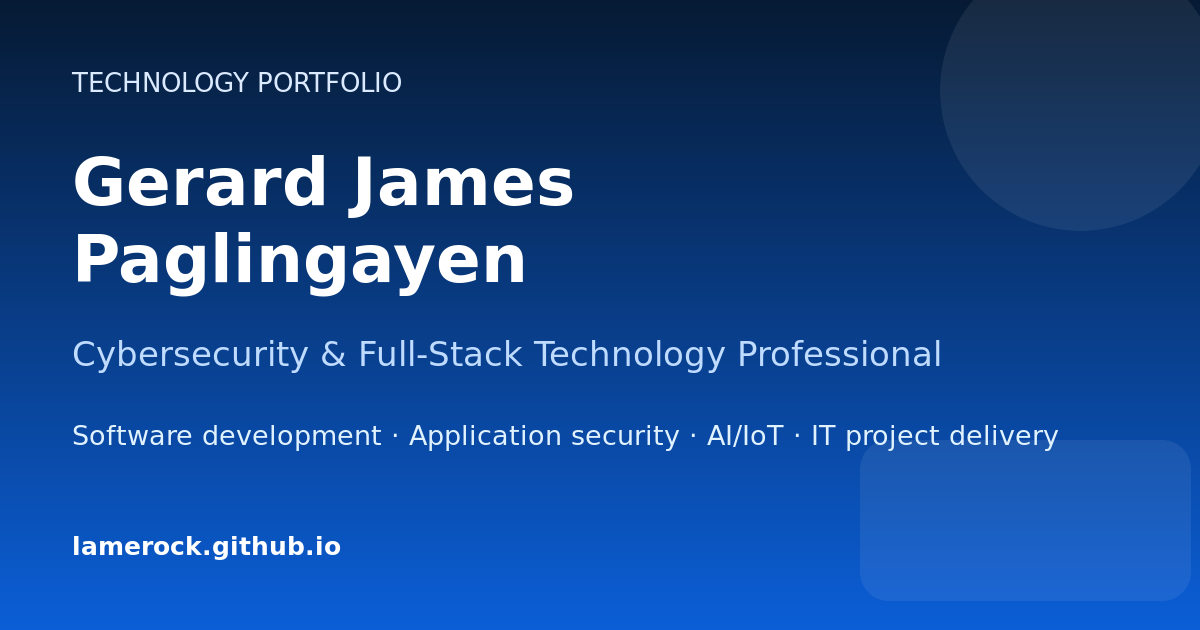
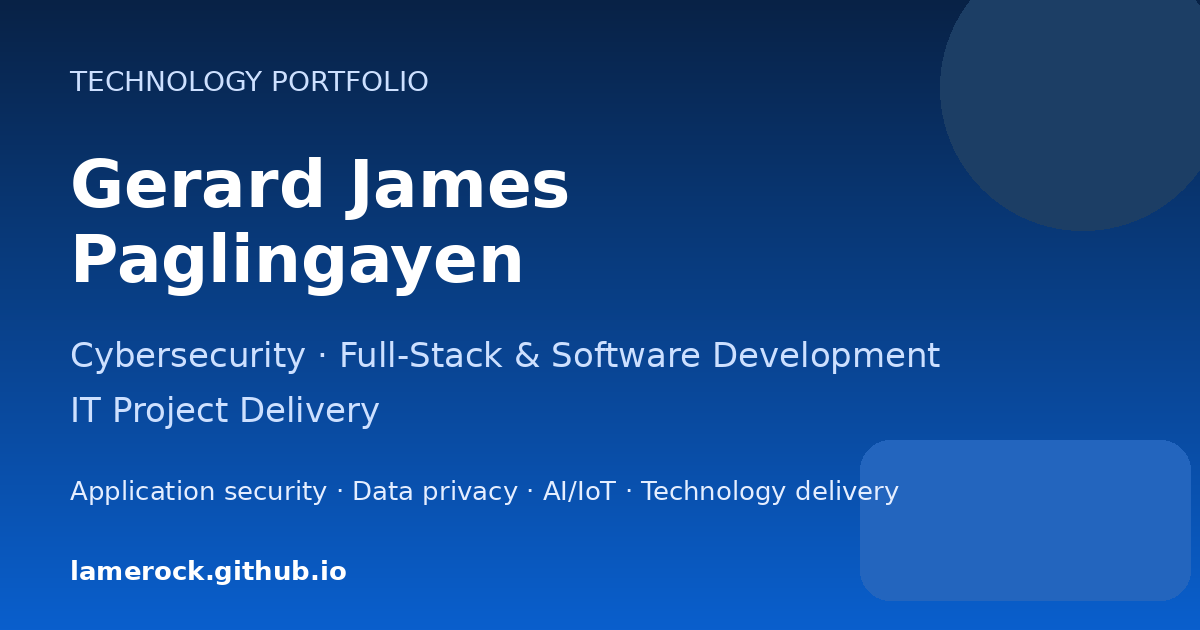
Update GitHub Actions workflow and enhance portfolio content: streamline deployment steps, update action versions, and refine profile descriptions and skills.

diff --git a/src/data/portfolio.ts b/src/data/portfolio.ts
@@ -4,12 +4,12 @@ import dryingSystemImage from '../assets/projects/drying-system-placeholder.svg'
 
 export const profile = {
   name: 'Gerard James Paglingayen',
-  role: 'Cybersecurity & Full-Stack Technology Professional',
-  eyebrow: 'Technology Professional · Cybersecurity · Software Development',
+  role: 'Cybersecurity · Full-Stack & Software Development · IT Project Delivery',
+  eyebrow: 'Cybersecurity · Full-Stack & Software Development · IT Project Delivery',
   lead:
-    'I build and secure software and connected systems across web development, machine learning, IoT, data privacy, and institutional IT.',
+    'I work across cybersecurity, data privacy, full-stack and software development, information systems, IT operations, and technology project delivery.',
   summary:
-    'Technology professional with 15 years of higher-education experience across software development, cybersecurity, data privacy, IT operations, technical training, and institutional technology leadership. My work combines hands-on development of web, mobile, machine-learning, and IoT systems with experience in application security, technology project delivery, compliance, planning, and stakeholder coordination.',
+    'Technology professional with extensive higher-education experience and hands-on work across cybersecurity, data privacy, full-stack and software development, information systems, IT operations, technical training, and institutional technology leadership. Recent commissioned work includes a PHP/MySQL requirements-management platform with application-security hardening, Android/TensorFlow Lite mobile machine learning, and Arduino-based IoT automation. Former Data Protection Officer and Management Information Systems Director with experience in privacy compliance, incident coordination, risk assessment, ICT planning, stakeholder management, and technology project delivery. Continues technical development through commissioned projects, research, certifications, and 2025–2026 training in cybersecurity and modern web development.',
   location: 'Antique, Philippines',
   email: 'gjpaglingayen@gmail.com',
   github: 'https://github.com/lamerock',
@@ -19,8 +19,8 @@ export const profile = {
 } as const;
 
 export const highlights = [
-  '15 years in higher-education technology',
-  'Full-stack development & application security',
+  'Extensive higher-education technology experience',
+  'Recent commissioned full-stack, AI/ML & IoT work',
   'Former Data Protection Officer & MIS Director',
 ] as const;
 
@@ -32,10 +32,10 @@ export const experience = [
     dates: 'July 2009 – June 2025',
     kind: 'Primary role',
     bullets: [
-      'Developed and delivered instruction in programming, software engineering, web development, embedded systems, and cybersecurity.',
-      'Guided capstone and engineering-design projects through requirements analysis, development, testing, and deployment.',
-      'Applied Python, C++, C#, PHP, WordPress, and web technologies across laboratories, assessments, and hands-on technical projects.',
-      'Designed practical activities and real-world projects to strengthen technical problem-solving and industry-readiness skills.',
+      'Developed and delivered courses in programming, software engineering, web development, embedded systems, and cybersecurity.',
+      'Mentored capstone and design projects from requirements analysis through development, testing, and deployment.',
+      'Integrated Python, C++, C#, PHP, WordPress, and web technologies into instruction, laboratories, assessments, and applied projects.',
+      'Implemented hands-on activities and real-world projects to strengthen technical, problem-solving, and industry-readiness skills.',
       'Contributed to curriculum development and faculty initiatives aligned with current computing and IT practices.',
     ],
     tags: ['Programming', 'Software Engineering', 'Web Development', 'Embedded Systems', 'Cybersecurity'],
@@ -47,29 +47,28 @@ export const experience = [
     dates: 'June 2019 – February 2022',
     kind: 'Concurrent leadership appointment',
     bullets: [
-      'Monitored institutional compliance with the Philippine Data Privacy Act, implementing regulations, National Privacy Commission issuances, and related requirements.',
-      'Maintained records of personal-data processing operations and reviewed processing activities and compliance controls.',
-      'Reviewed third-party providers, security clearances, certifications, and requirements for Data Sharing Agreements.',
-      'Ensured Privacy Impact Assessments were conducted for relevant projects, systems, programs, and processing activities.',
-      'Coordinated breach and security-incident management, including regulatory reports and documentation.',
-      'Supported privacy-by-design through awareness activities and development and review of policies, guidelines, projects, and programs.',
+      'Monitored institutional compliance with the Philippine Data Privacy Act of 2012, its Implementing Rules and Regulations, National Privacy Commission issuances, and other applicable privacy requirements.',
+      'Maintained records of personal-data processing operations, reviewed processing activities and compliance measures, and provided privacy and data-protection recommendations.',
+      'Reviewed third-party service-provider compliance, security clearances, relevant accreditations or certifications, and Data Sharing Agreement requirements where applicable.',
+      'Ensured Privacy Impact Assessments were conducted for relevant activities, projects, programs, systems, and personal-data processing operations.',
+      'Coordinated data-breach and security-incident management, including required reports and documentation to the National Privacy Commission within prescribed periods.',
+      'Promoted privacy awareness and supported policies, guidelines, projects, and programs using a privacy-by-design approach; served as institutional contact for data subjects and authorities.',
     ],
     tags: ['Data Privacy', 'Risk Assessment', 'Incident Response', 'Privacy Impact Assessment', 'Compliance'],
   },
   {
     organization: 'University of Antique',
     location: 'Sibalom, Antique, Philippines',
-    role: 'Director / OIC-Director, Management Information Systems',
+    role: 'OIC-Director / Director, Management Information Systems',
     dates: 'August 2017 – February 2019',
     kind: 'Concurrent leadership appointment',
     bullets: [
-      'Developed institutional plans and policies for effective use of information and communications technology.',
-      'Prepared ICT project proposals for executive approval and coordinated implementation schedules.',
-      'Organized and coordinated the MIS unit in delivering institutional ICT programs and projects.',
-      'Worked with colleges, departments, and campuses to identify and address ICT requirements and project needs.',
-      'Monitored ICT program and project implementation and prepared reports for university leadership.',
+      'Formulated plans and policies for effective and efficient use of information and communications technology across the University.',
+      'Prepared ICT project proposals for top-management approval and coordinated scheduled implementation.',
+      'Organized and coordinated the MIS unit in implementing institutional ICT programs and projects; worked with colleges, departments, and campuses on technology requirements and concerns.',
+      'Monitored and evaluated ICT program and project implementation and prepared reports for the University President.',
     ],
-    tags: ['MIS', 'ICT Planning', 'Project Delivery', 'Stakeholder Coordination', 'Reporting'],
+    tags: ['MIS', 'ICT Planning', 'Technology Project Delivery', 'Stakeholder Coordination', 'Reporting'],
   },
   {
     organization: 'University of Antique',
@@ -78,10 +77,8 @@ export const experience = [
     dates: 'May 2018 – February 2019',
     kind: 'Concurrent leadership appointment',
     bullets: [
-      'Supported university leadership in institutional policy-making and planning.',
-      'Coordinated planning activities across colleges, campuses, departments, and institutional committees.',
-      'Coordinated monitoring and evaluation of university programs and projects.',
-      'Consolidated institutional plans, reports, programs, projects, and activities to support reporting and information retrieval.',
+      'Assisted the University President in institutional policy-making and planning and coordinated committees across colleges, campuses, and departments on plans and development initiatives.',
+      'Coordinated monitoring and evaluation of University programs and projects and consolidated institutional plans and reports for reporting and information retrieval.',
     ],
     tags: ['Strategic Planning', 'Monitoring & Evaluation', 'Stakeholder Coordination'],
   },
@@ -92,9 +89,8 @@ export const experience = [
     dates: 'August 2021 – September 2021',
     kind: 'Contract engagement',
     bullets: [
-      'Delivered hands-on training in Government Web Template implementation, accessibility, website planning, content organization, menu creation, plugins, and template customization.',
-      'Conducted workshops covering hosting, cPanel, deployment, backups, website security practices, and SEO fundamentals.',
-      'Supported government digital-capability development around secure, accessible, citizen-centered websites.',
+      'Delivered hands-on training on Government Web Template implementation, web accessibility, website planning, content structuring, menu creation, plugin installation, and template customization.',
+      'Conducted workshops on hosting, cPanel, website deployment, backups, security practices, and SEO fundamentals, supporting secure and accessible government websites.',
     ],
     tags: ['Web Accessibility', 'Deployment', 'Security', 'SEO', 'Technical Training'],
   },
@@ -105,9 +101,8 @@ export const experience = [
     dates: 'July 2021',
     kind: 'Contract engagement',
     bullets: [
-      'Delivered intensive Python workshops covering development environments, debugging, data structures, clean code, and application development.',
-      'Introduced object-oriented programming and guided participants in designing modular applications through hands-on exercises.',
-      'Supported ICT capacity-building initiatives through practical Python training.',
+      'Conducted intensive Python workshops covering environment setup, debugging, data structures, clean code, application development, and object-oriented programming.',
+      'Guided participants in designing modular applications through hands-on exercises and mentoring aligned with digital-transformation initiatives.',
     ],
     tags: ['Python', 'Object-Oriented Programming', 'Clean Code', 'Technical Training'],
   },
@@ -115,24 +110,19 @@ export const experience = [
 
 export const skillGroups = [
   {
-    title: 'Programming Languages',
+    title: 'Programming & Scripting',
     items: ['Python', 'C++', 'C#', 'PHP', 'Java', 'Kotlin', 'JavaScript', 'PowerShell'],
   },
   {
-    title: 'Web & Full-Stack',
-    items: ['PHP', 'Laravel', 'React', 'Next.js', 'Flask', 'HTML', 'CSS', 'Bootstrap', 'WordPress'],
+    title: 'Full-Stack & Web',
+    items: ['PHP', 'MySQL', 'Laravel', 'React', 'Next.js', 'Flask', 'Bootstrap', 'WordPress', 'HTML', 'CSS'],
   },
   {
-    title: 'Databases',
-    items: ['MySQL', 'MongoDB'],
-  },
-  {
-    title: 'Cybersecurity & Data Privacy',
+    title: 'Cybersecurity & Application Security',
     items: [
       'Application Security',
-      'Information Security',
       'Data Privacy',
-      'Data Protection',
+      'Information Security',
       'Risk Assessment',
       'Incident Response',
       'CSRF Protection',
@@ -142,20 +132,26 @@ export const skillGroups = [
     ],
   },
   {
-    title: 'Mobile, AI & Computer Vision',
-    items: ['Android SDK', 'Kotlin', 'TensorFlow', 'Keras', 'TensorFlow Lite', 'OkHttp', 'YOLOv5', 'YOLOv8', 'CNN', 'Computer Vision'],
+    title: 'Development Workflow',
+    items: ['Git', 'GitHub', 'GitHub Projects', 'Kanban Workflow', 'Task Tracking'],
   },
   {
-    title: 'Embedded Systems & IoT',
-    items: ['Arduino', 'Raspberry Pi', 'Embedded Systems', 'Sensor Integration', 'HTTP Device Integration', 'Relay Control', 'Process Automation'],
+    title: 'Mobile, ML & IoT',
+    items: ['Android SDK', 'TensorFlow', 'Keras', 'TensorFlow Lite', 'OkHttp', 'Arduino', 'Raspberry Pi', 'MongoDB', 'YOLOv5', 'YOLOv8'],
   },
   {
-    title: 'Development & Collaboration',
-    items: ['Git', 'GitHub', 'GitHub Projects', 'Kanban', 'Task Tracking'],
-  },
-  {
-    title: 'IT & Technology Delivery',
-    items: ['Information Systems', 'IT Operations', 'Systems Management', 'Digital Governance', 'Strategic Planning', 'Process Improvement', 'Stakeholder Coordination', 'Technology Project Delivery'],
+    title: 'IT & Project Delivery',
+    items: [
+      'Information Systems',
+      'IT Operations',
+      'Systems Management',
+      'Digital Governance',
+      'Strategic Planning',
+      'Process Improvement',
+      'Stakeholder Coordination',
+      'IT Project Management',
+      'Technology Project Delivery',
+    ],
   },
 ] as const;
 
@@ -165,10 +161,10 @@ export const projects = [
     year: '2025',
     role: 'Developer / Programmer · Full-Stack PHP Developer / Application Security',
     description:
-      'A PHP/MySQL web application for faculty document submission, requirements tracking, user profiles, notifications, and administrative approvals. I developed and maintained the application while strengthening its security through standardized CSRF protection, centralized request validation, secure session workflows, and protection of state-changing operations.',
+      'A PHP/MySQL web application for faculty document submission, requirements tracking, profiles, notifications, and administrative approvals. I developed and maintained the application and hardened it through standardized CSRF protection, centralized request validation, secure session workflows, and protection of state-changing POST operations.',
     contribution:
-      'Security and functional testing included PHP linting, PowerShell-based HTTP requests, authenticated-session testing, and verification of CSRF enforcement.',
-    focus: ['Faculty workflow management', 'Security hardening', 'Authenticated request testing'],
+      'Security auditing and functional testing used PHP linting, PowerShell HTTP requests, authenticated-session testing, and CSRF enforcement verification.',
+    focus: ['Requirements management', 'Application-security hardening', 'Authenticated-session testing'],
     technologies: ['PHP', 'MySQL', 'Bootstrap', 'JavaScript', 'PowerShell', 'Application Security'],
     image: facultySystemImage,
     imageAlt: 'Placeholder preview for the Faculty Document Submission and Requirements Management System',
@@ -178,35 +174,35 @@ export const projects = [
     videoUrl: null as string | null,
   },
   {
-    title: 'AI-Powered Rice Leaf Nutrient Assessment & Smart Irrigation System',
-    year: '2024',
-    role: 'Developer / Programmer · Mobile / Machine Learning / IoT Developer',
+    title: 'Automated Agricultural Drying & Monitoring System',
+    year: '2025',
+    role: 'Developer / Programmer · Embedded Systems / IoT Developer',
     description:
-      'An AI-assisted mobile and IoT system that classifies rice-leaf nutrient deficiency and uses the classification result to control irrigation hardware. I developed a TensorFlow/Keras CNN for four nutrient-deficiency levels, deployed the model to Android using TensorFlow Lite, and integrated the Kotlin application with an Arduino Uno R4 WiFi for automated relay-controlled irrigation.',
+      'An embedded automation system integrating temperature/humidity sensing, load-cell weight measurement, real-time clock, LCD, GSM communications, and relay-controlled ventilation. I implemented humidity-based fan control, moisture-content calculations, state-based process control, automatic shutdown, and SMS reporting.',
     contribution:
-      'The implementation connected on-device image classification with HTTP-based control of relay-connected irrigation pumps.',
-    focus: ['CNN image classification', 'On-device TensorFlow Lite inference', 'HTTP-based irrigation control'],
-    technologies: ['Kotlin', 'Android SDK', 'Python', 'TensorFlow', 'TensorFlow Lite', 'Arduino', 'IoT'],
-    image: riceIrrigationImage,
-    imageAlt: 'Placeholder preview for the AI-powered rice leaf nutrient assessment and smart irrigation project',
-    outcome: 'Verified model evaluation, deployment, and operational metrics to be added.',
+      'The implementation combined sensing, process control, automatic shutdown, and GSM-based status reporting in an Arduino/C++ automation workflow.',
+    focus: ['Sensor integration', 'State-based process control', 'Automatic shutdown & SMS reporting'],
+    technologies: ['Arduino', 'C++', 'DHT22', 'HX711', 'Load Cell', 'DS3231 RTC', 'GSM', 'I2C', 'Relay Control'],
+    image: dryingSystemImage,
+    imageAlt: 'Placeholder preview for the automated agricultural drying and monitoring system',
+    outcome: 'Verified deployment context and measured operational results to be added.',
     repositoryUrl: null as string | null,
     demoUrl: null as string | null,
     videoUrl: null as string | null,
   },
   {
-    title: 'Automated Agricultural Drying & Monitoring System',
-    year: '2025',
-    role: 'Developer / Programmer · Embedded Systems / IoT Developer',
+    title: 'AI-Powered Rice Leaf Nutrient Assessment & Smart Irrigation System',
+    year: '2024',
+    role: 'Developer / Programmer · Mobile / Machine Learning / IoT Developer',
     description:
-      'An embedded agricultural process-automation system combining environmental sensing, load-cell weight measurement, real-time monitoring, relay-controlled ventilation, and GSM communication. I implemented humidity-based fan control, moisture-content calculations, and a state-based workflow that detects target moisture levels, completes a timed final drying cycle, shuts the system down, and sends process information by SMS.',
+      'A mobile machine-learning and IoT system using a TensorFlow/Keras CNN to identify four rice leaf nutrient-deficiency levels. I deployed the trained model to Android with TensorFlow Lite for on-device classification and integrated the Kotlin app with an Arduino Uno R4 WiFi over HTTP for automated irrigation control.',
     contribution:
-      'The system integrated dual temperature/humidity sensors, load-cell measurement, a real-time clock, LCD interface, GSM communications, and relay-controlled ventilation.',
-    focus: ['Multi-sensor integration', 'State-based process control', 'GSM status reporting'],
-    technologies: ['Arduino', 'C++', 'DHT22', 'HX711', 'DS3231 RTC', 'GSM', 'I2C', 'Process Automation'],
-    image: dryingSystemImage,
-    imageAlt: 'Placeholder preview for the automated agricultural drying and monitoring system',
-    outcome: 'Verified deployment context and measured operational results to be added.',
+      'The implementation connected image preprocessing, CNN training and validation, on-device inference, and HTTP-based irrigation control.',
+    focus: ['CNN image classification', 'TensorFlow Lite on-device inference', 'HTTP-based irrigation control'],
+    technologies: ['Kotlin', 'Android SDK', 'Python', 'TensorFlow', 'Keras', 'TensorFlow Lite', 'OkHttp', 'Arduino', 'IoT'],
+    image: riceIrrigationImage,
+    imageAlt: 'Placeholder preview for the AI-powered rice leaf nutrient assessment and smart irrigation project',
+    outcome: 'Verified model evaluation, deployment, and operational metrics to be added.',
     repositoryUrl: null as string | null,
     demoUrl: null as string | null,
     videoUrl: null as string | null,
@@ -234,9 +230,9 @@ export const research = [
   },
   {
     title: 'Deep Learning Application of Automated Facemask Classification and Physical-Distancing Detection',
-    publication: 'Institute of Electrical and Electronics Engineers (IEEE)',
+    publication: 'IEEE',
     date: 'December 28, 2021',
-    detail: 'Publication is part of the professional record; additional public abstract or project details are not available here.',
+    detail: 'Publication is part of the professional record; additional public abstract or project details are not provided in the CV.',
     reference: 'Publication link pending',
     url: null as string | null,
   },
@@ -266,7 +262,7 @@ export const education = [
     dates: '2004–2009',
   },
   {
-    qualification: 'Programming in C++ – 36-hour Short Course',
+    qualification: 'Programming in C++ — 36-hour Short Course',
     status: null,
     institution: 'MFI Technological Institute',
     location: 'Pasig City, Philippines',
@@ -287,10 +283,17 @@ export const professionalDevelopment = [
   'Next.js App Router Fundamentals — Vercel · 2026',
   'Python Web Development with Flask Framework — Ground Gurus · 2025',
   'Build Modern Web Applications with Laravel and React — Ground Gurus · 2025',
-  'Laravel Fundamentals & Beyond — Ground Gurus · 2025',
+  'Laravel Fundamentals & Beyond: Laravel Developer’s Core Skills — Ground Gurus · 2025',
   'Web Fundamentals & Front-End Essentials: PHP Core & Object-Oriented Programming — Ground Gurus · 2025',
+  'Back-End Web Development 101 — Bayan Academy · 2023',
   'Internal Auditor Training on ISO/IEC 27001:2013 — QRC Assurance and Solutions · 2022',
+  'Training of Trainers on Web Development of Web Developers Course — DICT · 2022',
+  'Network Planning, Design and Optimization for Outdoor and Indoor Networks — DICT · 2022',
+  'Training for Trainers: Foundations of Computer Emergency Response Team Operations — DICT · 2021',
+  'Integrated Cybersecurity Management and System — DICT · 2021',
   'Digital Transformation ICT Project Management (Training of Trainers) — DICT · 2021',
-  'Foundations of Computer Emergency Response Team Operations (Training for Trainers) — DICT · 2021',
   'Digital Governance and Management — DICT · 2021',
+  'Cybersecurity Competency Framework — DICT · 2020',
+  'Data Driven Governance Workshop — DICT · 2020',
+  'Government Web Template Training for Trainers — DICT · 2019',
 ] as const;
